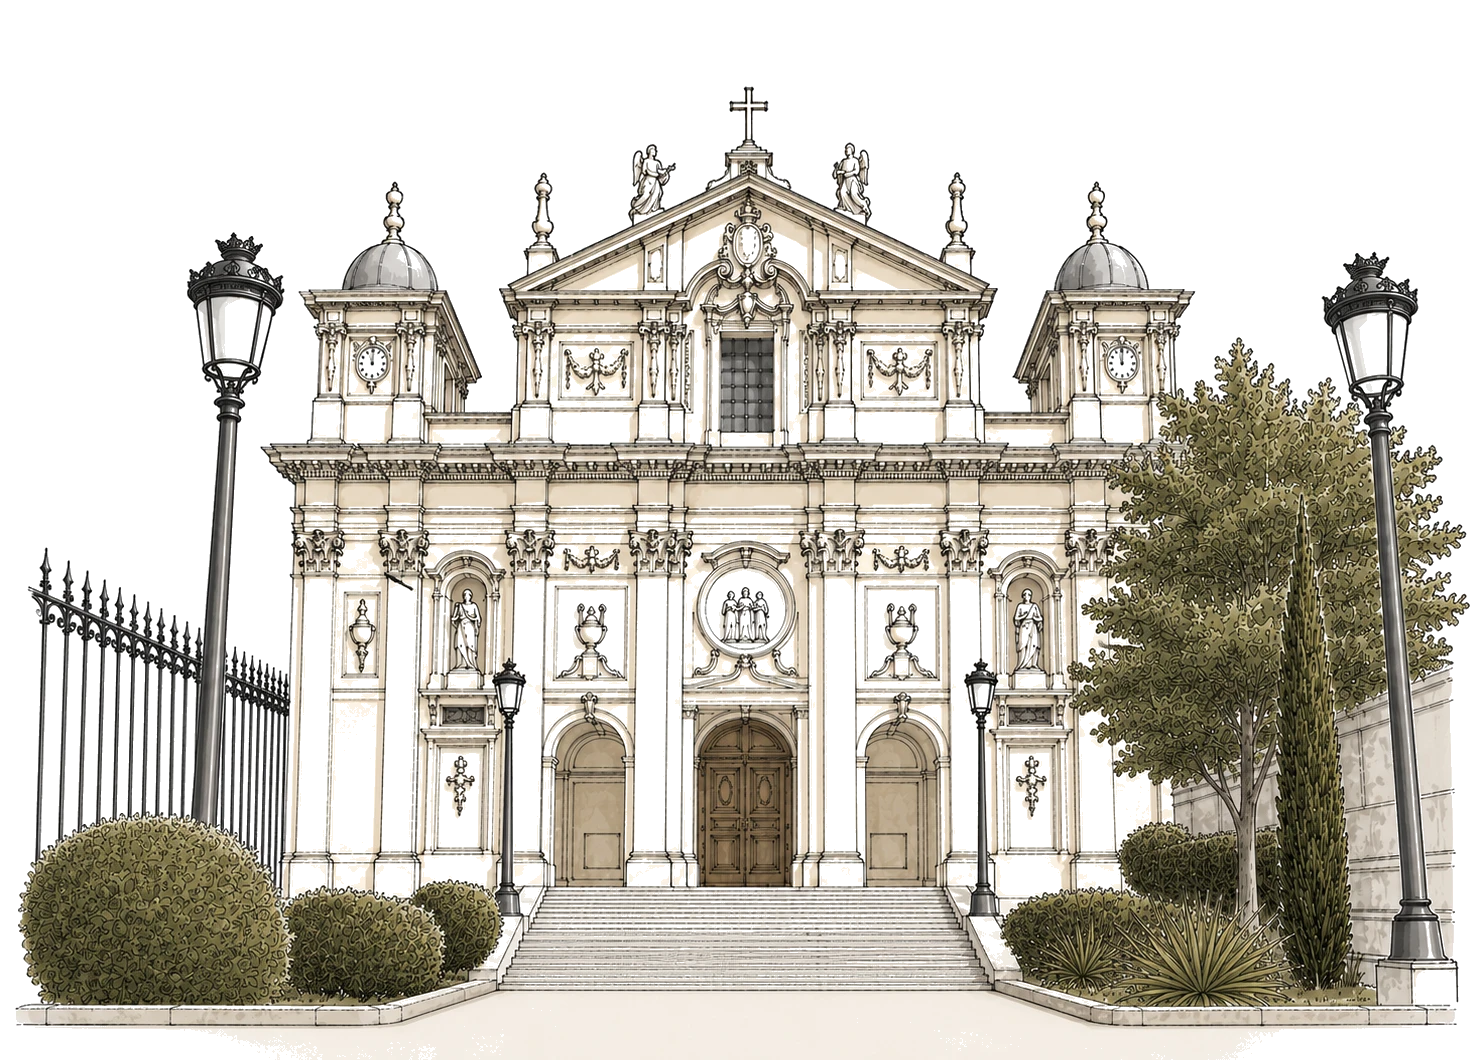
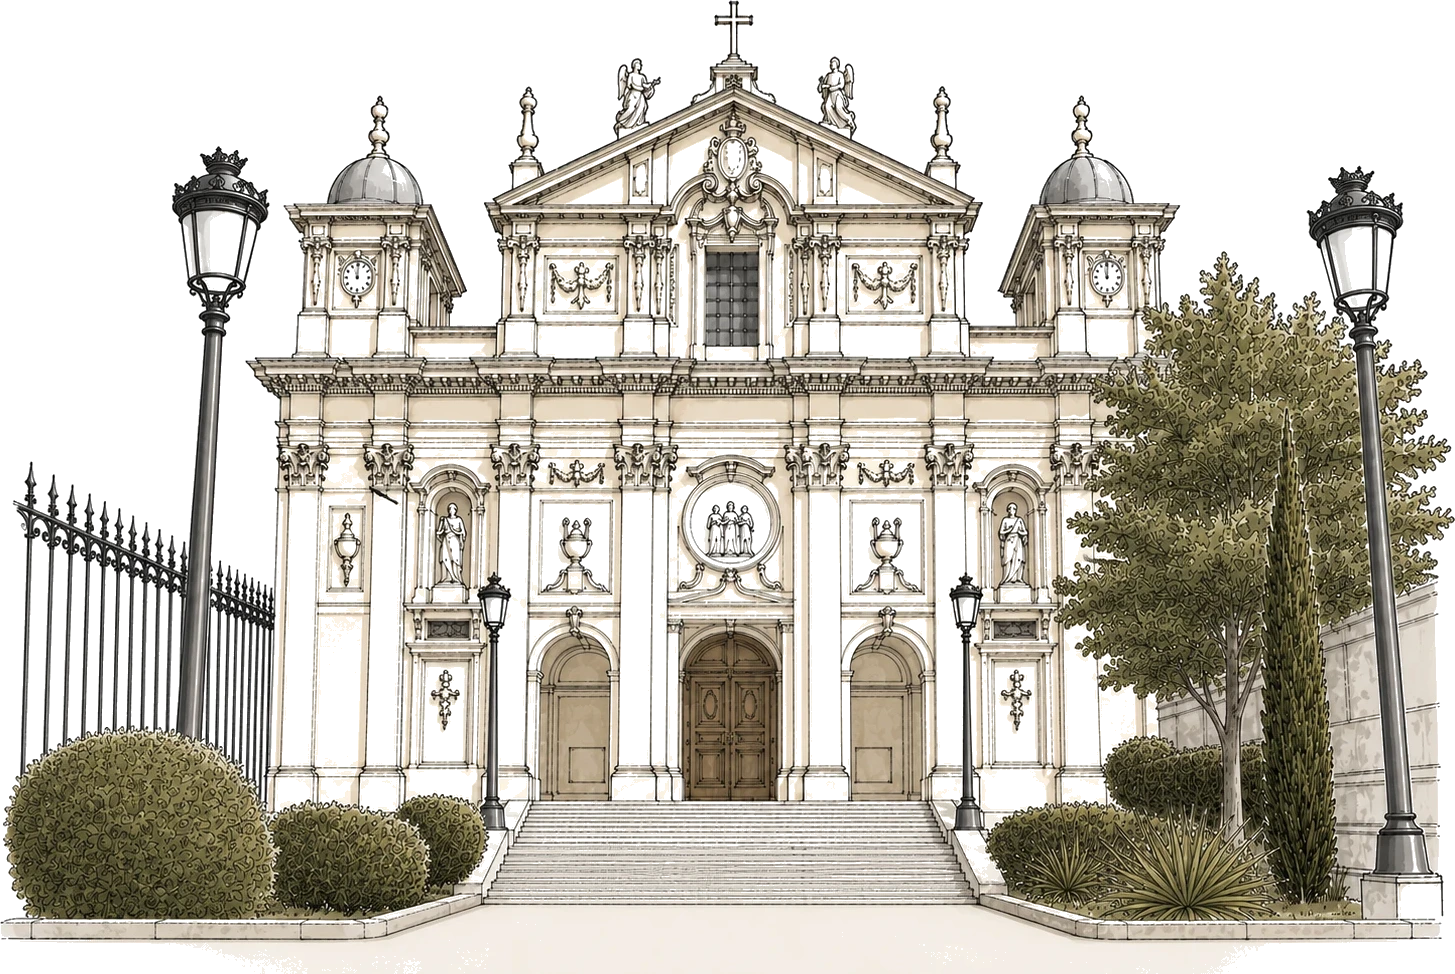
Add files via upload

diff --git a/css/style.css b/css/style.css
@@ -27,7 +27,10 @@ html { scroll-behavior: smooth; width: 100%; max-width: 100%; }
 body {
   font-family: var(--font-body);
   color: var(--text);
-  background: var(--bg);
+  background-color: var(--bg);
+  background-image: url('../assets/paper-texture.webp');
+  background-repeat: repeat;
+  background-size: 512px 512px;
   font-weight: 400;
   font-size: 1.06rem;
   line-height: 1.7;
@@ -307,7 +310,7 @@ a { color: inherit; }
   min-height: 95svh;
   padding: 0;
   overflow: hidden;
-  background: var(--bg);
+  background: transparent;
 }
 .hero__finca-img {
   position: absolute; inset: 0;
@@ -315,6 +318,9 @@ a { color: inherit; }
   object-fit: cover;
   object-position: center top;
   z-index: 0;
+  /* fundido inferior sobre la textura de papel del body */
+  -webkit-mask-image: linear-gradient(to bottom, black 0%, black 80%, transparent 100%);
+  mask-image: linear-gradient(to bottom, black 0%, black 80%, transparent 100%);
 }
 .hero--finca .hero__content {
   position: absolute; top: 0; left: 0; right: 0;
@@ -337,12 +343,16 @@ a { color: inherit; }
     hsl(50 28% 92% / 0) 100%);
   z-index: 1; pointer-events: none;
 }
-/* degradado de salida abajo */
+/* textura de papel superpuesta a toda la portada (imagen incluida):
+   multiply = efecto "impreso sobre la invitación" */
 .hero--finca::after {
   content: "";
-  position: absolute; inset: auto 0 0 0; height: 22%;
-  background: linear-gradient(to bottom, hsl(50 28% 92% / 0), var(--bg));
-  z-index: 1; pointer-events: none;
+  position: absolute; inset: 0;
+  background: url('../assets/paper-texture.webp') repeat;
+  background-size: 512px 512px;
+  mix-blend-mode: multiply;
+  z-index: 1;
+  pointer-events: none;
 }
 
 /* ESCRITORIO (ancho ≥ 760px): aspect-ratio fijo en vez de altura de pantalla */
@@ -411,25 +421,28 @@ a { color: inherit; }
   position: relative;
   width: 100%;
   margin: 0;
-  background: var(--bg);
+  background: transparent;
   overflow: hidden;
   line-height: 0;            /* sin hueco bajo la imagen */
 }
+/* fundido en los 4 bordes con mask: deja ver la textura de papel del body */
 .photo-band__img {
   width: 100%;
   display: block;
+  -webkit-mask-image:
+    linear-gradient(to bottom, transparent 0%, black 22%),
+    linear-gradient(to top,    transparent 0%, black 22%),
+    linear-gradient(to right,  transparent 0%, black 18%),
+    linear-gradient(to left,   transparent 0%, black 18%);
+  -webkit-mask-composite: source-in;
+  mask-image:
+    linear-gradient(to bottom, transparent 0%, black 22%),
+    linear-gradient(to top,    transparent 0%, black 22%),
+    linear-gradient(to right,  transparent 0%, black 18%),
+    linear-gradient(to left,   transparent 0%, black 18%);
+  mask-composite: intersect;
 }
-/* degradado en los 4 bordes — top, bottom, left, right */
-.photo-band::before {
-  content: "";
-  position: absolute; inset: 0;
-  background:
-    linear-gradient(to bottom, var(--bg) 0%, transparent 22%),
-    linear-gradient(to top,    var(--bg) 0%, transparent 22%),
-    linear-gradient(to right,  var(--bg) 0%, transparent 18%),
-    linear-gradient(to left,   var(--bg) 0%, transparent 18%);
-  z-index: 1; pointer-events: none;
-}
+.photo-band::before { display: none; }
 .photo-band::after { display: none; }
 
 /* =========================================================
@@ -487,7 +500,7 @@ a { color: inherit; }
 .countdown {
   text-align: center;
   padding: 5rem 1.5rem;
-  background: var(--bg);
+  background: transparent;
 }
 .countdown .script-title { color: #882e2b; }
 .countdown__timer {
@@ -536,18 +549,26 @@ a { color: inherit; }
   border: 1px solid var(--muted);
   padding: 0 2rem;
 }
-.timeline::before {
-  content: "";
-  position: absolute; top: 2.5rem; bottom: 2.5rem; left: 50%;
-  width: 1px; background: var(--border);
-  transform: translateX(-50%);
-}
+/* la línea se dibuja solo en los huecos entre items (así el fondo
+   texturizado del body se ve intacto detrás del contenido) */
 .timeline__item {
   position: relative;
   padding: 2rem 0;
 }
+.timeline__item::before,
+.timeline__item::after {
+  content: "";
+  position: absolute; left: 50%;
+  width: 1px; height: 2rem;
+  background: var(--border);
+  transform: translateX(-50%);
+}
+.timeline__item::before { top: 0; }
+.timeline__item::after  { bottom: 0; }
+.timeline__item:first-child::before { display: none; }
+.timeline__item:last-child::after   { display: none; }
 .timeline__content {
-  background: var(--bg);
+  background: transparent;
   position: relative;
   z-index: 1;
   padding: .4rem 0;

diff --git a/index.html b/index.html
@@ -11,7 +11,7 @@
   <link rel="preconnect" href="https://fonts.gstatic.com" crossorigin />
   <link href="https://fonts.googleapis.com/css2?family=Cormorant+Garamond:ital,wght@0,300;0,400;0,500;1,300;1,400&family=EB+Garamond:wght@400;500&family=Pinyon+Script&display=swap" rel="stylesheet" />
 
-  <link rel="stylesheet" href="css/style.css?v=57" />
+  <link rel="stylesheet" href="css/style.css?v=58" />
   <link rel="icon" href="assets/monogram-mf.webp" />
 </head>
 <body>
@@ -263,7 +263,15 @@
             <p class="transfer__label">Titular</p>
             <p class="transfer__value transfer__value--bold">Francisco Irazola Laguna &amp; María José Palomar Bueno</p>
             <p class="transfer__label">IBAN</p>
-            <p class="transfer__value">Contáctanos y te lo facilitamos</p>
+            <div class="transfer__iban-row">
+              <img src="assets/iban.webp" alt="Número de cuenta IBAN" class="transfer__iban-img" />
+              <button type="button" class="transfer__copy-btn" onclick="copyIban(this)" aria-label="Copiar IBAN">
+                <svg xmlns="http://www.w3.org/2000/svg" width="18" height="18" viewBox="0 0 24 24" fill="none" stroke="currentColor" stroke-width="2" stroke-linecap="round" stroke-linejoin="round" aria-hidden="true">
+                  <rect x="9" y="9" width="13" height="13" rx="2"/>
+                  <path d="M5 15H4a2 2 0 0 1-2-2V4a2 2 0 0 1 2-2h9a2 2 0 0 1 2 2v1"/>
+                </svg>
+              </button>
+            </div>
           </div>
         </details>
       </div>